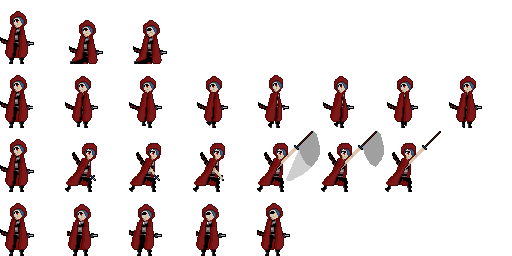
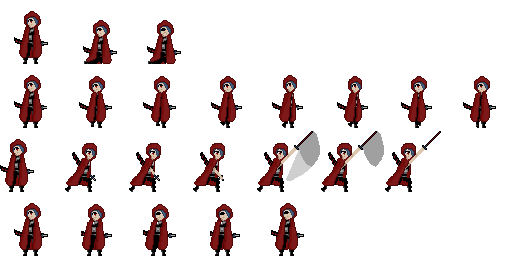
atk anime

diff --git a/entities/player.js b/entities/player.js
@@ -31,6 +31,9 @@ export default class Player extends Phaser.Physics.Arcade.Sprite {
         this.vortex_cooldown = 200
 
         this.swap = false
+
+        this.create_animation();
+        this.is_not_atk = true;
     }
 
     blocage_touche () {
@@ -44,24 +47,34 @@ export default class Player extends Phaser.Physics.Arcade.Sprite {
     deplacement() {
         if(!this.body) return;
 
-        if (this.keyboard.left.isDown) { //si la touche gauche est appuyée
+        if (this.keyboard.left.isDown && this.is_not_atk) { //si la touche gauche est appuyée
             this.setVelocityX(-300); //alors vitesse négative en X
             window.dataPlayer.direction = "left"
+            this.setFlipX(true);
+            this.setVelocityX(-160);
+            this.anims.play('run', true);
 
         }
 
-        else if (this.keyboard.right.isDown) { //sinon si la touche droite est appuyée
+        else if (this.keyboard.right.isDown && this.is_not_atk) { //sinon si la touche droite est appuyée
             this.setVelocityX(300); //alors vitesse positive en X
             window.dataPlayer.direction = "right"
+            this.setFlipX(false);
+            this.setVelocityX(160);
+            this.anims.play('run', true);
         }
         
         else {
             this.setVelocityX(0)
+            if (this.body.onFloor() && this.is_not_atk) {
+                this.anims.play('idle', true);
+            }
         }
 
-        if (this.keyboard.up.isDown && this.body.blocked.down) { // si touche bas appuyée 
+        if (this.keyboard.up.isDown && this.body.blocked.down && this.is_not_atk) { // si touche bas appuyée 
             this.setVelocityY(-300); //vitesse 
             window.dataPlayer.direction = "up"
+            
         }
 
 
@@ -133,11 +146,21 @@ export default class Player extends Phaser.Physics.Arcade.Sprite {
         } 
 
         else{
-           this.slash = new Slash (scene, this.x, this.y, sprite);
-           this.slash.tirer(window.dataPlayer.direction);
-           this.time_from_last_slash = new Date().getTime(); // on donne une nouvelle valeur a timefrom, on l'actualise pour avoir un delai
-
+            this.is_not_atk = false;
+            this.anims.play('attaque', true);
+            this.slash = new Slash (scene, this.x, this.y, sprite);
+            this.slash.tirer(window.dataPlayer.direction);
+            this.time_from_last_slash = new Date().getTime(); // on donne une nouvelle valeur a timefrom, on l'actualise pour avoir un delai
+            this.scene.time.delayedCall(330, ()=>{
+                this.is_not_atk = true
+            });
         } 
+
+    }
+
+    fin_attaque(){
+
+        this.is_not_atk = true
 
     }
 
@@ -193,6 +216,31 @@ export default class Player extends Phaser.Physics.Arcade.Sprite {
 
         bullet.destroy();
         vortex.destroy();
+
+    }
+
+    create_animation() {
+
+        this.scene.anims.create({
+			key: 'idle',
+			frames: this.scene.anims.generateFrameNumbers('perso', { start: 24, end: 28 }),
+			frameRate: 5,
+			repeat: -1
+		}); 
+
+        this.scene.anims.create({
+			key: 'run',
+			frames: this.scene.anims.generateFrameNumbers('perso', { start: 9, end: 15 }),
+			frameRate: 12,
+			repeat: -1
+		}); 
+
+        this.scene.anims.create({
+			key: 'attaque',
+			frames: this.scene.anims.generateFrameNumbers('perso', { start: 15, end: 21 }),
+			frameRate: 30,
+			repeat: 0
+		}); 
 
     }
 }

diff --git a/levels/tuto_01.js b/levels/tuto_01.js
@@ -22,14 +22,14 @@ export default class tuto_01 extends Phaser.Scene {
     // chargement de la carte
     this.load.tilemapTiledJSON("tuto_01", "level/tuto_01.json");
 
-    this.load.spritesheet('perso','assets/perso.png',
-        { frameWidth: 32, frameHeight: 48 });
+    this.load.spritesheet('perso','assets/perso_sheet.png',
+        { frameWidth: 64, frameHeight: 64 });
 
     this.load.image("snake", "assets/snake.png"); //Sprite mob
 
     this.load.image("sprite_tir", "assets/projectile.png"); //Sprite tir
 
-    this.load.image("slash", "assets/slash.png");
+    this.load.image("slash", "assets/slash02.png");
 
     this.load.image("sprite_vortex", "assets/vortex.png"); 
 
@@ -79,8 +79,8 @@ export default class tuto_01 extends Phaser.Scene {
     
         
         //CREATION JOUEUR ET PROPRIETES
-        this.player = new Player(this, 47,309, 'perso');
-
+        this.player = new Player(this, 47,289, 'perso');
+        this.player.setSize(32, 64, true);
         //Initialisation de la caméra et des limites de jeu
         this.cameras.main.setBounds(0, 0, 2048, 3584);
         this.cameras.main.zoom = 1;
